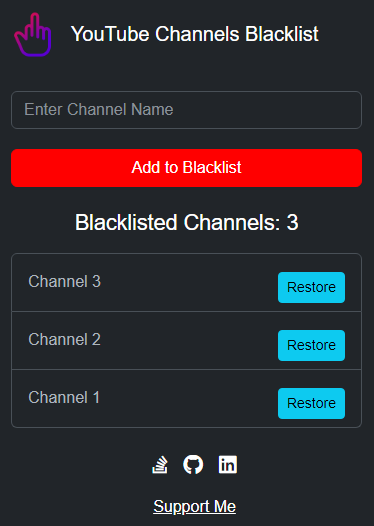
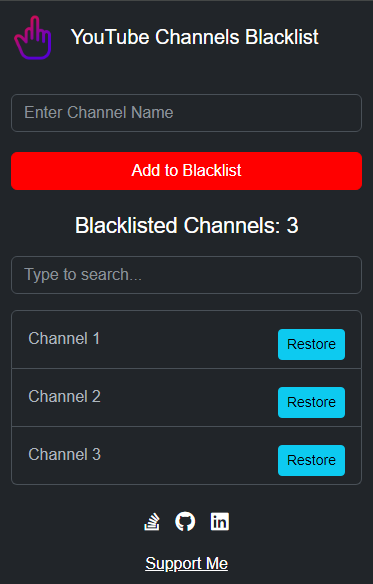
Added search box

diff --git a/popup.js b/popup.js
@@ -4,36 +4,47 @@ document.addEventListener('DOMContentLoaded', function() {
     const channelInput = document.getElementById('channelInput');
     const addChannelButton = document.getElementById('addChannelButton');
     const blacklist = document.getElementById('blacklist');
+    const searchBox = document.getElementById('searchBox');
+
+    let blacklistedChannels = []; // Variable to store channels for search filtering
 
     // Function to update the blacklist display
-    function updateBlacklist() {
+    function updateBlacklist(searchQuery = '') {
         // Clear current list
         blacklist.innerHTML = '';
 
-        // Retrieve blacklisted channels from storage
+        // Filter channels based on search query
+        const filteredChannels = blacklistedChannels.filter(channel =>
+            channel.toLowerCase().includes(searchQuery.toLowerCase())
+        );
+
+        // Update the counter with the total number of filtered channels
+        const counter = document.getElementById('counter');
+        counter.textContent = filteredChannels.length;
+
+        filteredChannels.forEach(channel => {
+            const listItem = document.createElement('li');
+            listItem.className = 'list-group-item d-flex justify-content-between align-items-center';
+            listItem.textContent = channel;
+
+            // Add a remove button
+            const removeButton = document.createElement('button');
+            removeButton.className = 'btn btn-info btn-sm';
+            removeButton.textContent = 'Restore';
+            removeButton.onclick = function() {
+                removeChannel(channel);
+            };
+
+            listItem.appendChild(removeButton);
+            blacklist.appendChild(listItem);
+        });
+    }
+
+    // Function to load channels from storage
+    function loadChannels() {
         chrome.storage.sync.get(['blacklistedChannels'], function(result) {
-            const channels = result.blacklistedChannels.reverse() || [];
-
-            // Update the counter with the total number of channels
-            const counter = document.getElementById('counter');
-            counter.textContent = channels.length;
-
-            channels.forEach(channel => {
-                const listItem = document.createElement('li');
-                listItem.className = 'list-group-item d-flex justify-content-between align-items-center';
-                listItem.textContent = channel;
-
-                // Add a remove button
-                const removeButton = document.createElement('button');
-                removeButton.className = 'btn btn-info btn-sm';
-                removeButton.textContent = 'Restore';
-                removeButton.onclick = function() {
-                    removeChannel(channel);
-                };
-
-                listItem.appendChild(removeButton);
-                blacklist.appendChild(listItem);
-            });
+            blacklistedChannels = result.blacklistedChannels || [];
+            updateBlacklist(); // Initial load without filtering
         });
     }
 
@@ -46,88 +57,65 @@ document.addEventListener('DOMContentLoaded', function() {
             return;
         }
 
-        chrome.storage.sync.get(['blacklistedChannels'], function(result) {
-            let channels = result.blacklistedChannels || [];
-            if (!channels.includes(channelName)) {
-                channels.push(channelName);
-                chrome.storage.sync.set({ blacklistedChannels: channels }, function() {
-                    // Update the list and clear input
-                    updateBlacklist();
-                    channelInput.value = '';
-                    showAlert('Channel added to blacklist.', 'success');
-                });
-            } else {
-                showAlert('Channel is already in the blacklist.', 'warning');
-            }
-        });
+        if (!blacklistedChannels.includes(channelName)) {
+            blacklistedChannels.push(channelName);
+            chrome.storage.sync.set({ blacklistedChannels }, function() {
+                // Update the list and clear input
+                updateBlacklist();
+                channelInput.value = '';
+                showAlert('Channel added to blacklist.', 'success');
+            });
+        } else {
+            showAlert('Channel is already in the blacklist.', 'warning');
+        }
     }
-	
-	// Function to display Bootstrap alerts
-	function showAlert(message, type) {
-		const alertContainer = document.createElement('div');
-		alertContainer.className = `alert alert-${type} alert-dismissible fade show`;
-		alertContainer.role = 'alert';
-		alertContainer.innerHTML = `
-			${message}
-			<button type="button" class="btn-close" data-dismiss="alert" aria-label="Close">
-				<span aria-hidden="true">&times;</span>
-			</button>
-		`;
-
-		// Add the alert to the top of the container
-		const container = document.querySelector('.container');
-		container.insertBefore(alertContainer, container.firstChild);
-
-		// Auto-dismiss alert after 3 seconds
-		setTimeout(() => {
-			alertContainer.classList.remove('show');
-			alertContainer.classList.add('fade');
-
-			// Use a timeout to remove the element from the DOM after fade transition
-			setTimeout(() => {
-				alertContainer.remove();
-			}, 150); // Matches the CSS transition duration for fade
-		}, 3000);
-	}
-
 
     // Function to remove a channel from the blacklist
     function removeChannel(channel) {
-        chrome.storage.sync.get(['blacklistedChannels'], function(result) {
-            let channels = result.blacklistedChannels || [];
-            channels = channels.filter(c => c !== channel);
-            chrome.storage.sync.set({ blacklistedChannels: channels }, function() {
-                // Update the list
-                updateBlacklist();
-            });
+        blacklistedChannels = blacklistedChannels.filter(c => c !== channel);
+        chrome.storage.sync.set({ blacklistedChannels }, function() {
+            // Update the list
+            updateBlacklist();
         });
     }
+
+    // Function to display Bootstrap alerts
+    function showAlert(message, type) {
+        const alertContainer = document.createElement('div');
+        alertContainer.className = `alert alert-${type} alert-dismissible fade show`;
+        alertContainer.role = 'alert';
+        alertContainer.innerHTML = `
+            ${message}
+            <button type="button" class="btn-close" data-dismiss="alert" aria-label="Close">
+                <span aria-hidden="true">&times;</span>
+            </button>
+        `;
+
+        // Add the alert to the top of the container
+        const container = document.querySelector('.container');
+        container.insertBefore(alertContainer, container.firstChild);
+
+        // Auto-dismiss alert after 3 seconds
+        setTimeout(() => {
+            alertContainer.classList.remove('show');
+            alertContainer.classList.add('fade');
+
+            // Use a timeout to remove the element from the DOM after fade transition
+            setTimeout(() => {
+                alertContainer.remove();
+            }, 150); // Matches the CSS transition duration for fade
+        }, 3000);
+    }
+
+    // Event listener for search input
+    searchBox.addEventListener('input', function() {
+        const searchQuery = searchBox.value.trim();
+        updateBlacklist(searchQuery);
+    });
 
     // Event listeners
     addChannelButton.addEventListener('click', addChannel);
 
     // Initial load
-    updateBlacklist();
-
-    const supportMeLink = document.getElementById('supportMeLink');
-    const supportOptions = document.getElementById('supportOptions');
-    const lightningLink = document.getElementById('lightningLink');
-    const lightningOptions = document.getElementById('lightningOptions');
-    const bitcoinLink = document.getElementById('bitcoinLink');
-    const bitcoinOptions = document.getElementById('bitcoinOptions');
-
-    supportMeLink.addEventListener('click', function() {
-        // Toggle the collapse manually
-        supportOptions.classList.toggle('show');
-    });
-    lightningLink.addEventListener('click', function() {
-        // Toggle the collapse manually
-        lightningOptions.classList.toggle('show');
-    });
-    bitcoinLink.addEventListener('click', function() {
-        // Toggle the collapse manually
-        bitcoinOptions.classList.toggle('show');
-    });
-    
-
+    loadChannels();
 });

diff --git a/popup.html b/popup.html
@@ -26,9 +26,14 @@
         <button class="btn btn-danger w-100" id="addChannelButton">Add to Blacklist</button>
       </div>
       <h4 class="mt-4 mb-3">Blacklisted Channels: <span id="counter">0</span></h4>
+      <div class="mb-3">
+        <input class="form-control" id="searchBox" placeholder="Search...">
+      </div>
       <ul class="list-group" id="blacklist"></ul>
     </div>
+    
   </div>
+
   
  <!-- Footer -->
 <footer class="footer fixed-bottom bg-dark text-white mt-5 p-2">
@@ -82,14 +87,8 @@
 </footer>
 
   <!-- Bootstrap JS and dependencies -->
-  <script src="https://cdn.jsdelivr.net/npm/@popperjs/core@2.11.6/dist/umd/popper.min.js"
-    integrity="sha384-oBqDVmMz9ATKxIep9tiCxS/Z9fNfEXiDAYTujMAeBAsjFuCZSmKbSSUnQlmh/jp3"
-    crossorigin="anonymous">
-  </script>
-  <script src="https://cdn.jsdelivr.net/npm/bootstrap@5.3.0-alpha1/dist/js/bootstrap.min.js"
-    integrity="sha384-mQ93GR66B00ZXjt0YO5KlohRA5SY2XofN4zfuZxLkoj1gXtW8ANNCe9d5Y3eG5eD"
-    crossorigin="anonymous">
-  </script>
+  <script src="https://cdn.jsdelivr.net/npm/@popperjs/core@2.11.8/dist/umd/popper.min.js" integrity="sha384-I7E8VVD/ismYTF4hNIPjVp/Zjvgyol6VFvRkX/vR+Vc4jQkC+hVqc2pM8ODewa9r" crossorigin="anonymous"></script>
+  <script src="https://cdn.jsdelivr.net/npm/bootstrap@5.3.3/dist/js/bootstrap.min.js" integrity="sha384-0pUGZvbkm6XF6gxjEnlmuGrJXVbNuzT9qBBavbLwCsOGabYfZo0T0to5eqruptLy" crossorigin="anonymous"></script>
   <script src="https://code.jquery.com/jquery-3.6.0.min.js"></script>
   <script src="popup.js"></script>
 </body>
